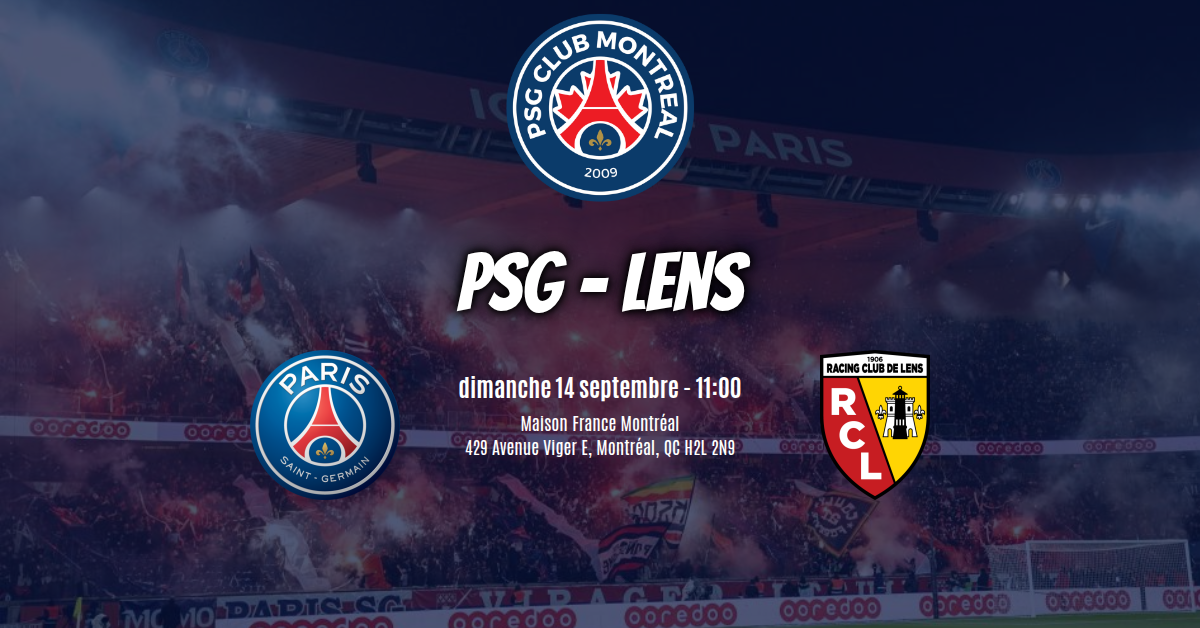
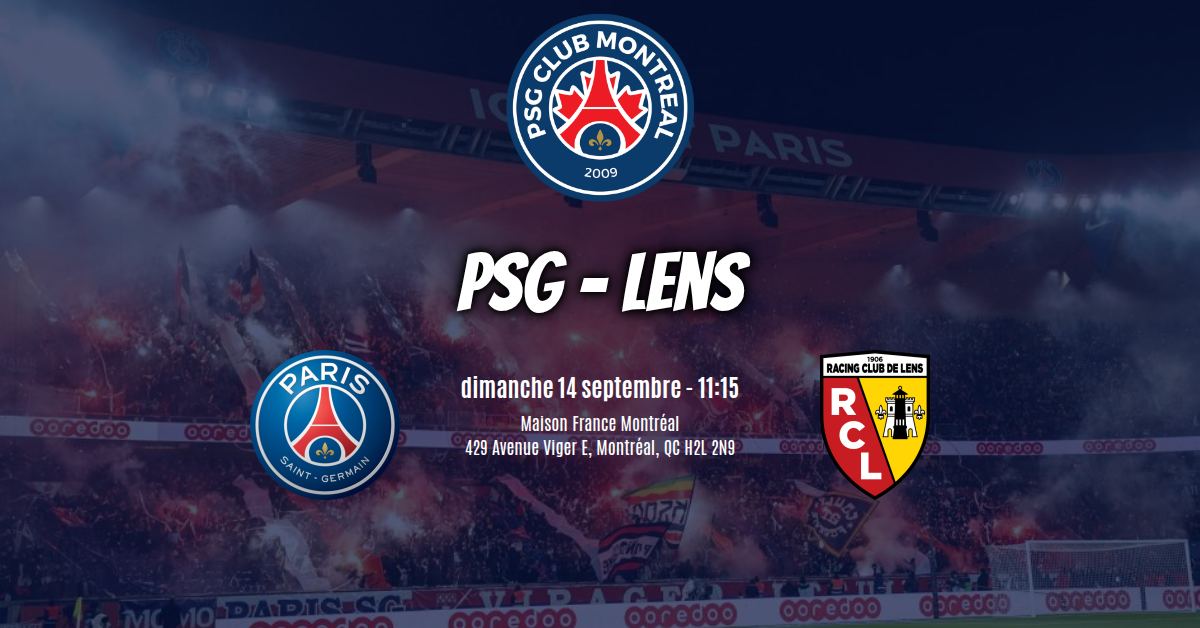
Automated: Generate match content

Changed region(s): [[0.37, 0.5748, 0.6167, 0.6354]]

diff --git a/content/en/event/Ligue-1-PSG-Rennes.md b/content/en/event/Ligue-1-PSG-Rennes.md
@@ -1,9 +1,11 @@
 ---
 title: PSG - Rennes
-date: 2024-09-27T15:00:00.000-04:00
+date: 2025-12-07T10:00:00-05:00
 publishdate: 2024-01-01T12:00:00.000-04:00
-expiryDate: 2024-09-28T07:00:00.000Z
-featureImage: images/event/PSG-Rennes-Insta.png
+expiryDate: 2025-12-08T03:00:00.000Z
+featureImage: images/event/PSG-Rennes-2025-12-07-Insta.png
+instagramImage: images/event/PSG-Rennes-2025-12-07-Insta.png
+facebookImage: images/event/PSG-Rennes-2025-12-07-FB.png
 definitiveDate: true
 categories: Match
 eventType: match
@@ -12,10 +14,10 @@ homeLogo: /images/teams/PSG.png
 awayLogo: /images/teams/Rennes.png
 homeTeam: PSG
 awayTeam: Rennes
-location: Union Française de Montréal
+location: Maison France de Montréal
 link: https://facebook.com/psgclubmontreal/events
 ---
 
-Come and experience the PSG match at the Union Française with the PSG Club Montreal.
+Come and experience the PSG match at the French House with the PSG Club Montreal.
 
 In addition to the match on the big screen and our bar offer, you will have the chance to win PSG and PSG Club Montreal prizes by participating in the organized games, and you will be able to immerse yourself in the atmosphere of the PSG Club Montreal, singing and supporting PSG with us!

diff --git a/content/fr/event/Ligue-1-PSG-Rennes.md b/content/fr/event/Ligue-1-PSG-Rennes.md
@@ -1,9 +1,11 @@
 ---
 title: PSG - Rennes
-date: 2024-09-27T15:00:00.000-04:00
+date: 2025-12-07T10:00:00-05:00
 publishdate: 2024-01-01T12:00:00.000-04:00
-expiryDate: 2024-09-28T07:00:00.000Z
-featureImage: images/event/PSG-Rennes-Insta.png
+expiryDate: 2025-12-08T03:00:00.000Z
+featureImage: images/event/PSG-Rennes-2025-12-07-Insta.png
+instagramImage: images/event/PSG-Rennes-2025-12-07-Insta.png
+facebookImage: images/event/PSG-Rennes-2025-12-07-FB.png
 definitiveDate: true
 categories: Match
 eventType: match
@@ -12,10 +14,10 @@ homeLogo: /images/teams/PSG.png
 awayLogo: /images/teams/Rennes.png
 homeTeam: PSG
 awayTeam: Rennes
-location: Union Française de Montréal
+location: Maison France de Montréal
 link: https://facebook.com/psgclubmontreal/events
 ---
 
-Venez vivre le match du PSG à l'Union Française avec le PSG Club Montréal.
+Venez vivre le match du PSG à la Maison France avec le PSG Club Montréal.
 
 En plus du match sur grand écran et notre offre de bar, vous courrez la chance de gagner des lots PSG et PSG Club Montréal en participant au jeux organisés, et vous pourrez vous immerger dans l'ambiance du PSG Club Montréal, en chantant et supportant le PSG avec nous !

diff --git a/content/en/event/Ligue-1-PSG-Lens.md b/content/en/event/Ligue-1-PSG-Lens.md
@@ -1,8 +1,8 @@
 ---
 title: PSG - Lens
-date: 2025-09-14T11:00:00-04:00
+date: 2025-09-14T11:15:00-04:00
 publishdate: 2024-01-01T12:00:00.000-04:00
-expiryDate: 2025-09-15T03:00:00.000Z
+expiryDate: 2025-09-15T03:15:00.000Z
 featureImage: images/event/PSG-Lens-2025-09-14-Insta.png
 instagramImage: images/event/PSG-Lens-2025-09-14-Insta.png
 facebookImage: images/event/PSG-Lens-2025-09-14-FB.png

diff --git a/content/fr/event/Ligue-1-PSG-Lens.md b/content/fr/event/Ligue-1-PSG-Lens.md
@@ -1,8 +1,8 @@
 ---
 title: PSG - Lens
-date: 2025-09-14T11:00:00-04:00
+date: 2025-09-14T11:15:00-04:00
 publishdate: 2024-01-01T12:00:00.000-04:00
-expiryDate: 2025-09-15T03:00:00.000Z
+expiryDate: 2025-09-15T03:15:00.000Z
 featureImage: images/event/PSG-Lens-2025-09-14-Insta.png
 instagramImage: images/event/PSG-Lens-2025-09-14-Insta.png
 facebookImage: images/event/PSG-Lens-2025-09-14-FB.png
